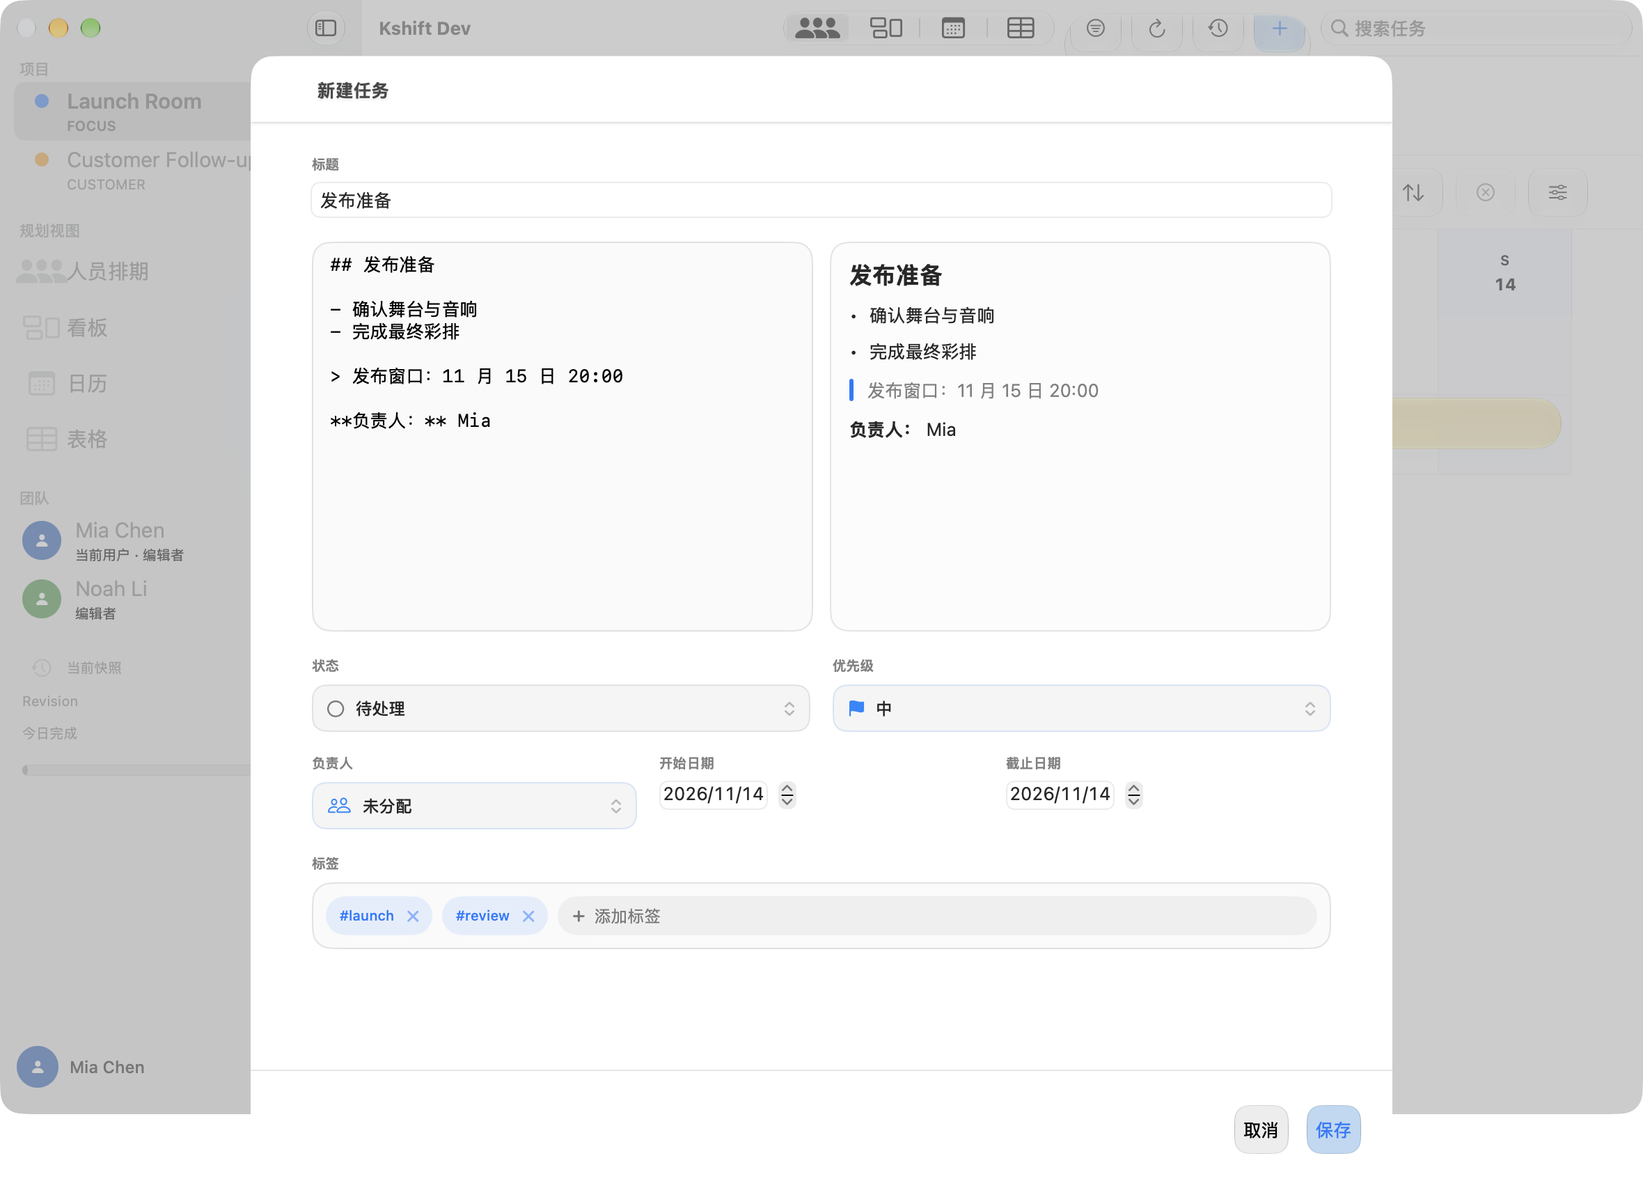
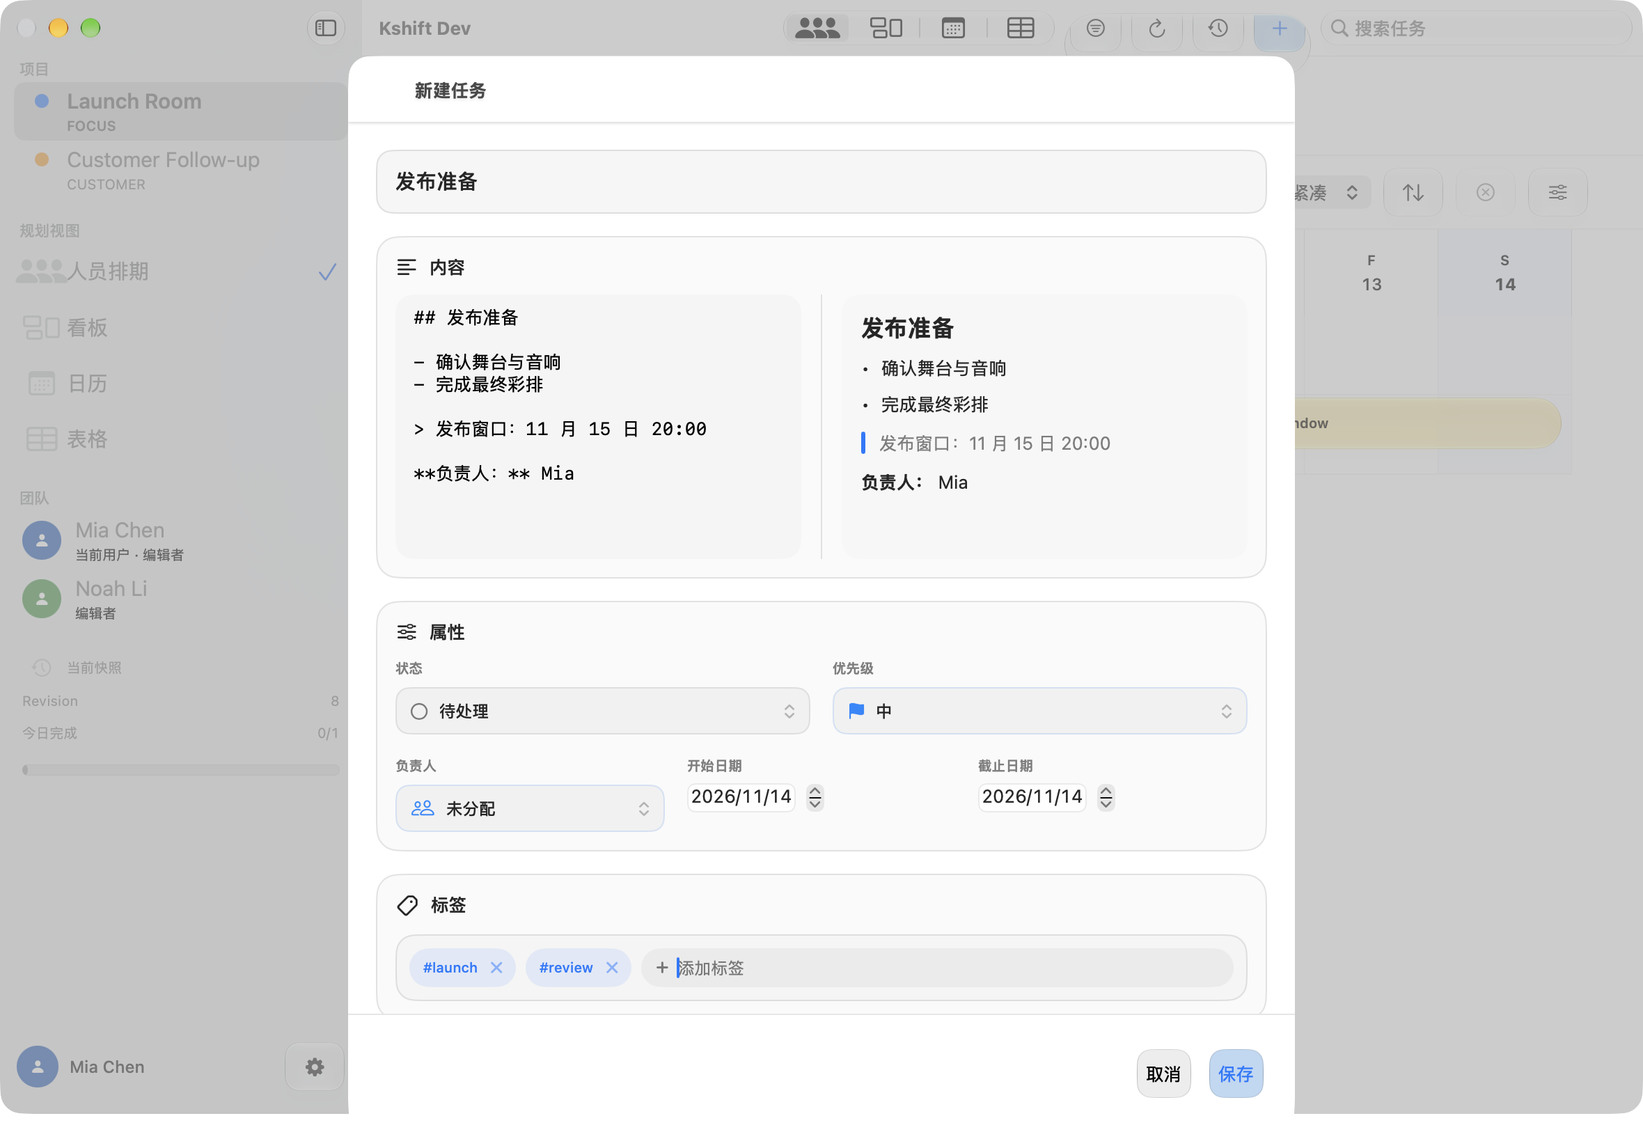
Tighten task panel layout and visual hierarchy

diff --git a/Sources/KshiftUI/TaskEditorView.swift b/Sources/KshiftUI/TaskEditorView.swift
@@ -36,23 +36,21 @@ struct TaskEditorView: View {
     }
 
     private var editorFields: some View {
-        VStack(alignment: .leading, spacing: 18) {
-            fieldGroup("标题") {
-                TextField("例如：确认发布清单", text: $draft.title, axis: .vertical)
-                    .textFieldStyle(.roundedBorder)
-                    .lineLimit(1...3)
-                    .accessibilityLabel("任务标题")
-                    .accessibilityIdentifier("task-title")
+        VStack(alignment: .leading, spacing: 16) {
+            titleField
+
+            panelSection("内容", systemImage: "text.alignleft") {
+                MarkdownEditorView(
+                    text: $draft.notes,
+                    paneHeight: markdownPaneHeight
+                )
             }
 
-            MarkdownEditorView(
-                text: $draft.notes,
-                paneHeight: markdownPaneHeight
-            )
+            panelSection("属性", systemImage: "slider.horizontal.3") {
+                taskPropertyFields
+            }
 
-            taskPropertyFields
-
-            fieldGroup("标签") {
+            panelSection("标签", systemImage: "tag") {
                 TaskTagEditor(tags: $draft.tags, input: $tagInput)
             }
 
@@ -63,6 +61,7 @@ struct TaskEditorView: View {
                 )
                 .font(.caption)
                 .foregroundStyle(.secondary)
+                .padding(.horizontal, 4)
             }
 
             if let validationMessage {
@@ -76,7 +75,57 @@ struct TaskEditorView: View {
                 ConflictInlineView(model: model, notice: conflict, dismiss: dismiss.callAsFunction)
             }
         }
-        .padding(24)
+        .padding(20)
+    }
+
+    private var titleField: some View {
+        TextField(
+            "任务标题",
+            text: $draft.title,
+            prompt: Text("任务标题"),
+            axis: .vertical
+        )
+        .font(.title3.weight(.semibold))
+        .textFieldStyle(.plain)
+        .lineLimit(1...3)
+        .padding(.horizontal, 14)
+        .padding(.vertical, 10)
+        .frame(maxWidth: .infinity, minHeight: 46, alignment: .leading)
+        .background(
+            .primary.opacity(0.04),
+            in: RoundedRectangle(cornerRadius: 12, style: .continuous)
+        )
+        .overlay {
+            RoundedRectangle(cornerRadius: 12, style: .continuous)
+                .strokeBorder(.separator, lineWidth: 1)
+                .allowsHitTesting(false)
+        }
+        .accessibilityLabel("任务标题")
+        .accessibilityIdentifier("task-title")
+    }
+
+    private func panelSection<Content: View>(
+        _ title: String,
+        systemImage: String,
+        @ViewBuilder content: () -> Content
+    ) -> some View {
+        VStack(alignment: .leading, spacing: 12) {
+            Label(title, systemImage: systemImage)
+                .font(.headline.weight(.semibold))
+                .foregroundStyle(.primary)
+
+            content()
+        }
+        .padding(14)
+        .background(
+            .primary.opacity(0.025),
+            in: RoundedRectangle(cornerRadius: 16, style: .continuous)
+        )
+        .overlay {
+            RoundedRectangle(cornerRadius: 16, style: .continuous)
+                .strokeBorder(.separator, lineWidth: 1)
+                .allowsHitTesting(false)
+        }
     }
 
     private var taskPropertyFields: some View {
@@ -230,9 +279,9 @@ struct TaskEditorView: View {
 
     private var markdownPaneHeight: CGFloat {
         if isCompactWidth {
-            return 220
+            return 170
         }
-        return presentation == .popover ? 230 : 280
+        return presentation == .popover ? 180 : 190
     }
 
     private var dueDateField: some View {
@@ -254,7 +303,7 @@ struct TaskEditorView: View {
         NavigationStack {
             ScrollView {
                 editorFields
-                    .frame(maxWidth: 780, alignment: .leading)
+                    .frame(maxWidth: 680, alignment: .leading)
                     .frame(maxWidth: .infinity, alignment: .center)
             }
             .background(.background)
@@ -270,10 +319,10 @@ struct TaskEditorView: View {
             }
             .interactiveDismissDisabled(isSaving)
             .frame(
-                minWidth: isCompactWidth ? nil : 820,
-                idealWidth: isCompactWidth ? nil : 860,
-                minHeight: isCompactWidth ? nil : 680,
-                idealHeight: isCompactWidth ? nil : 740
+                minWidth: isCompactWidth ? nil : 680,
+                idealWidth: isCompactWidth ? nil : 720,
+                minHeight: isCompactWidth ? nil : 640,
+                idealHeight: isCompactWidth ? nil : 720
             )
         }
     }
@@ -318,8 +367,8 @@ struct TaskEditorView: View {
             maxHeight: isCompactWidth ? .infinity : nil
         )
         .frame(
-            width: isCompactWidth ? nil : 720,
-            height: isCompactWidth ? nil : 600
+            width: isCompactWidth ? nil : 640,
+            height: isCompactWidth ? nil : 580
         )
         .background(.background)
         .interactiveDismissDisabled(isSaving)
@@ -404,6 +453,11 @@ private struct TaskMetadataControlLabel: View {
     let title: String
     let systemImage: String
     let tint: Color
+    @Environment(\.horizontalSizeClass) private var horizontalSizeClass
+
+    private var minimumHeight: CGFloat {
+        horizontalSizeClass == .compact ? 44 : 34
+    }
 
     var body: some View {
         HStack(spacing: 7) {
@@ -423,7 +477,7 @@ private struct TaskMetadataControlLabel: View {
         }
         .font(.callout.weight(.medium))
         .padding(.horizontal, 10)
-        .frame(maxWidth: .infinity, minHeight: 34, alignment: .leading)
+        .frame(maxWidth: .infinity, minHeight: minimumHeight, alignment: .leading)
         .background(.primary.opacity(0.045), in: RoundedRectangle(cornerRadius: 10, style: .continuous))
         .overlay {
             RoundedRectangle(cornerRadius: 10, style: .continuous)

diff --git a/Sources/KshiftUI/TaskDetailView.swift b/Sources/KshiftUI/TaskDetailView.swift
@@ -72,35 +72,52 @@ struct TaskDetailView: View {
                 Text("删除会写入项目审计记录。此操作不能静默撤销。")
             }
             .frame(
-                minWidth: isCompactWidth ? nil : 820,
-                idealWidth: isCompactWidth ? nil : 860,
-                minHeight: isCompactWidth ? nil : 680,
-                idealHeight: isCompactWidth ? nil : 740
+                minWidth: isCompactWidth ? nil : 680,
+                idealWidth: isCompactWidth ? nil : 720,
+                minHeight: isCompactWidth ? nil : 640,
+                idealHeight: isCompactWidth ? nil : 720
             )
         }
     }
 
     private func taskContent(_ task: TaskItem) -> some View {
         ScrollView {
-            VStack(alignment: .leading, spacing: 20) {
-                VStack(alignment: .leading, spacing: 10) {
-                    Text(task.title)
-                        .font(.largeTitle.weight(.bold))
-                        .fixedSize(horizontal: false, vertical: true)
+            VStack(alignment: .leading, spacing: 18) {
+                VStack(alignment: .leading, spacing: 16) {
+                    VStack(alignment: .leading, spacing: 10) {
+                        Text(task.title)
+                            .font(.title.weight(.bold))
+                            .fixedSize(horizontal: false, vertical: true)
 
-                    HStack(spacing: 8) {
-                        StatusBadge(status: task.status)
-                        PriorityBadge(priority: task.priority)
+                        HStack(spacing: 8) {
+                            StatusBadge(status: task.status)
+                            PriorityBadge(priority: task.priority)
+                        }
+                    }
+
+                    Divider()
+
+                    HStack(spacing: 20) {
+                        DetailFact(title: "负责人", value: model.assigneeNames(for: task))
+                        DetailFact(
+                            title: "日期",
+                            value: task.scheduleStartDate == task.scheduleEndDate
+                                ? task.dueDate
+                                : "\(task.scheduleStartDate) 至 \(task.scheduleEndDate)"
+                        )
+                        DetailFact(title: "版本", value: "v\(task.version)")
                     }
                 }
-
-                HStack(spacing: 18) {
-                    DetailFact(title: "负责人", value: model.assigneeNames(for: task))
-                    DetailFact(title: "日期", value: task.scheduleStartDate == task.scheduleEndDate ? task.dueDate : "\(task.scheduleStartDate) 至 \(task.scheduleEndDate)")
-                    DetailFact(title: "版本", value: "v\(task.version)")
+                .padding(20)
+                .background(
+                    .primary.opacity(0.025),
+                    in: RoundedRectangle(cornerRadius: 16, style: .continuous)
+                )
+                .overlay {
+                    RoundedRectangle(cornerRadius: 16, style: .continuous)
+                        .strokeBorder(.separator, lineWidth: 1)
+                        .allowsHitTesting(false)
                 }
-                .padding(16)
-                .kshiftContentBoard()
 
                 KshiftMarkdownText(
                     source: task.notes.isEmpty ? "暂无详情" : task.notes,
@@ -158,8 +175,8 @@ struct TaskDetailView: View {
                     }
                 }
             }
-            .padding(28)
-            .frame(maxWidth: 900, alignment: .leading)
+            .padding(24)
+            .frame(maxWidth: 720, alignment: .leading)
         }
         .background(.background)
         .accessibilityIdentifier("task-detail")

diff --git a/Sources/KshiftUI/TaskTagsView.swift b/Sources/KshiftUI/TaskTagsView.swift
@@ -17,7 +17,12 @@ struct TaskTagList: View {
 struct TaskTagEditor: View {
     @Binding var tags: [String]
     @Binding var input: String
+    @Environment(\.horizontalSizeClass) private var horizontalSizeClass
     @FocusState private var isInputFocused: Bool
+
+    private var inputMinimumHeight: CGFloat {
+        horizontalSizeClass == .compact ? 44 : 28
+    }
 
     var body: some View {
         TagFlowLayout(spacing: 7, expandsLastItem: true) {
@@ -49,7 +54,7 @@ struct TaskTagEditor: View {
                     .accessibilityIdentifier("task-tag-input")
             }
             .padding(.horizontal, 10)
-            .frame(minHeight: 28)
+            .frame(minHeight: inputMinimumHeight)
             .background(.primary.opacity(0.05), in: Capsule())
         }
         .padding(10)
@@ -98,6 +103,11 @@ enum TaskTagValues {
 private struct TaskTagChip: View {
     let tag: String
     var onRemove: (() -> Void)?
+    @Environment(\.horizontalSizeClass) private var horizontalSizeClass
+
+    private var chipHeight: CGFloat {
+        onRemove != nil && horizontalSizeClass == .compact ? 44 : 28
+    }
 
     var body: some View {
         HStack(spacing: 4) {
@@ -109,7 +119,10 @@ private struct TaskTagChip: View {
                 Button(action: onRemove) {
                     Image(systemName: "xmark")
                         .font(.caption2.weight(.bold))
-                        .frame(width: 18, height: 18)
+                        .frame(
+                            width: horizontalSizeClass == .compact ? 34 : 18,
+                            height: chipHeight
+                        )
                 }
                 .buttonStyle(.plain)
                 .foregroundStyle(.secondary)
@@ -119,7 +132,7 @@ private struct TaskTagChip: View {
         .foregroundStyle(.tint)
         .padding(.leading, 10)
         .padding(.trailing, onRemove == nil ? 10 : 5)
-        .frame(minHeight: 28)
+        .frame(minHeight: chipHeight)
         .background(.tint.opacity(0.1), in: Capsule())
     }
 }

diff --git a/Sources/KshiftUI/Markdown/MarkdownEditorView.swift b/Sources/KshiftUI/Markdown/MarkdownEditorView.swift
@@ -14,11 +14,13 @@ struct MarkdownEditorView: View {
             if stacksVertically {
                 VStack(spacing: 12) {
                     editorPane
+                    Divider()
                     previewPane
                 }
             } else {
-                HStack(alignment: .top, spacing: 12) {
+                HStack(alignment: .top, spacing: 14) {
                     editorPane
+                    Divider()
                     previewPane
                 }
             }
@@ -37,11 +39,6 @@ struct MarkdownEditorView: View {
             .writingToolsBehavior(.disabled)
             .frame(maxWidth: .infinity, minHeight: paneHeight, maxHeight: paneHeight)
             .background(.primary.opacity(0.025), in: paneShape)
-            .overlay {
-                paneShape
-                    .strokeBorder(.separator, lineWidth: 1)
-                    .allowsHitTesting(false)
-            }
             .overlay(alignment: .topLeading) {
                 if text.isEmpty {
                     Text("输入 Markdown")
@@ -67,11 +64,6 @@ struct MarkdownEditorView: View {
         }
         .frame(maxWidth: .infinity, minHeight: paneHeight, maxHeight: paneHeight)
         .background(.primary.opacity(0.015), in: paneShape)
-        .overlay {
-            paneShape
-                .strokeBorder(.separator, lineWidth: 1)
-                .allowsHitTesting(false)
-        }
         .accessibilityLabel("Markdown 预览")
         .accessibilityIdentifier("markdown-preview")
     }

diff --git a/docs/evidence/people-schedule/glass-task-bar/README.md b/docs/evidence/people-schedule/glass-task-bar/README.md
@@ -50,7 +50,7 @@ description: 记录人员排期任务条使用原生染色 Liquid Glass、明亮
 - Window toolbar 只保留 one accent action。
 - macOS work area 使用 `AppKitScrollWheelRouter`。Vertical wheel 驱动 vertical scroll view。Shift + wheel 驱动 horizontal timeline。
 - Blank day cell click 使用 clicked person 和 clicked date 创建 local `TaskDraft`。
-- Blank day cell click 打开 responsive `TaskEditorView` popover。Popover default size 为 720pt × 600pt。
+- Blank day cell click 打开 responsive `TaskEditorView` popover。Popover default size 为 640pt × 580pt。
 - Regular PeopleSchedule 隐藏 duplicated global date navigation row。
 - Single schedule toolbar 包含 date picker、period control、density、sort、clear selection 和 settings。
 - Sidebar footer 使用 gear button，并打开 `KshiftAppSettingsView`。
@@ -61,14 +61,14 @@ description: 记录人员排期任务条使用原生染色 Liquid Glass、明亮
 - Task bars show a delayed hover preview panel。
 - Hover preview contains task metadata and rendered Markdown details。
 - Task details and task editor use the shared Markdown renderer。
-- Task editor shows editable Markdown and rendered preview simultaneously。It has no `编写` / `预览` mode switch。
+- Task editor shows editable Markdown and rendered preview simultaneously in adaptive side-by-side or stacked panes。It has no `编写` / `预览` mode switch。
 - Markdown preview supports headings、lists、quotes、dividers and fenced code。
 - Status and priority controls use equal-width columns。Tag editing uses removable chips and an inline input。
-- Regular task detail and task editor sheets use an `820pt` minimum width。
+- Regular task detail and task editor sheets use a `680pt` minimum width。
 
 ## 视觉证据
 
-截图使用固定日期 `2026-11-15` 和 Demo 数据。截图显示 P0、P1、P2 任务条在 Light Mode 和 Dark Mode 中保留优先级颜色、玻璃高光和单行紧凑布局。任务条保留统一的日期间距，不贴边绘制；单日标题完整显示或被 tail truncation 裁切；状态符号使用白芯高对比徽章，完成状态为绿色。Toolbar buttons 使用紧凑 neutral glass，不再出现 high-height accent-tinted blocks。Window toolbar 只保留 New Task as one pale-accent primary action。Regular PeopleSchedule uses one date and period navigation row。The sidebar gear button opens the application settings surface。PeopleSchedule no longer exposes the legacy Plan Depth entry。Task bars show rendered Markdown hover previews。Shift + wheel moved the month timeline horizontally。Blank day cell click opened and saved a responsive task popover。The Markdown editor now shows live write and preview panes。Status and priority columns are aligned。Tags use compact removable chips。
+截图使用固定日期 `2026-11-15` 和 Demo 数据。截图显示 P0、P1、P2 任务条在 Light Mode 和 Dark Mode 中保留优先级颜色、玻璃高光和单行紧凑布局。任务条保留统一的日期间距，不贴边绘制；单日标题完整显示或被 tail truncation 裁切；状态符号使用白芯高对比徽章，完成状态为绿色。Toolbar buttons 使用紧凑 neutral glass，不再出现 high-height accent-tinted blocks。Window toolbar 只保留 New Task as one pale-accent primary action。Regular PeopleSchedule uses one date and period navigation row。The sidebar gear button opens the application settings surface。PeopleSchedule no longer exposes the legacy Plan Depth entry。Task bars show rendered Markdown hover previews。Shift + wheel moved the month timeline horizontally。Blank day cell click opened and saved a responsive task popover。The task editor now uses compact section cards and live Markdown panes。Status and priority columns are aligned。Tags use compact removable chips。
 
 | 文件 | 环境 | 内容 | SHA-256 |
 | --- | --- | --- | --- |
@@ -76,11 +76,11 @@ description: 记录人员排期任务条使用原生染色 Liquid Glass、明亮
[11 lines of base64/hex data omitted]
 
 旧文件 `macos-task-bar-2026-11-14.png` 和 `ios-task-bar-2026-11-14.png` 是上一版 `.buttonStyle(.glass)` 候选。它们不表示最终视觉结论。
 

diff --git a/docs/specs/ui.md b/docs/specs/ui.md
@@ -148,12 +148,12 @@ flowchart TB
 - `UI-PPL-017`：任务状态徽章必须使用 26pt 外框、3pt 状态语义色环、白色中性内盘和 `13pt` heavy 状态符号。`todo` 使用 `circle.dashed` 和 `#8E8E93`/`#4B4B50`。`inProgress` 使用 `clock.fill` 和 `#0A84FF`/`#0057C8`。`blocked` 使用 `exclamationmark.octagon.fill` 和 `#FF453A`/`#A61B1B`。`done` 使用 `checkmark` 和 `#30D158`/`#0F7A3D`。优先级继续由 task bar tint 表达。状态菜单保持 44pt 触控区域。
 - `UI-PPL-018`：Planner toolbar 和 PeopleSchedule toolbar 的 action buttons 必须使用 `KshiftCompactGlassButtonStyle`。Visual height 必须为 34pt。Outer hit target 不得小于 44pt。Content 必须使用 primary color。Glass 必须使用 neutral `.glassEffect(.regular.interactive())`。禁止 accent-tinted `.buttonStyle(.glass)` 和 oversized glass container。Schedule toolbar 的 vertical padding 必须为 4pt，minimum height 必须为 52pt。
 - `UI-PPL-019`：macOS work area 必须将 vertical wheel route 到 nearest vertical scroll view。Shift + wheel 必须 route 到 nearest horizontal scroll view。Wheel routing 必须保留 precise scrolling deltas。Event handling 必须位于 `KshiftAppKitAdapter`。
-- `UI-PPL-020`：Click blank schedule day cell 必须使用 clicked person 和 clicked date 创建 local `TaskDraft`。交互必须打开 `TaskEditorView` 的 `popover` presentation。Popover default size 必须为 720pt × 600pt。Popup layout 必须使用 responsive assignee row 和 two-date row。该交互不得设置 root `editorDraft` 或复用 sheet presentation。
+- `UI-PPL-020`：Click blank schedule day cell 必须使用 clicked person 和 clicked date 创建 local `TaskDraft`。交互必须打开 `TaskEditorView` 的 `popover` presentation。Popover default size 必须为 640pt × 580pt。Popup layout 必须使用 responsive assignee row 和 two-date row。该交互不得设置 root `editorDraft` 或复用 sheet presentation。
 - `UI-PPL-021`：Regular horizontal-size PeopleSchedule 必须隐藏 PlannerView 的 global date navigation row。Schedule toolbar 必须是唯一 date 和 period navigation source。Schedule toolbar 必须包含 date picker、period control、density、sort、clear selection 和 settings。Compact horizontal-size class 必须保留 view picker 和 compact action bar。
 - `UI-PPL-022`：Sidebar footer 的 trailing action 必须是 settings gear button。该按钮必须打开 `KshiftAppSettingsView`。Settings surface 必须包含 schedule layout controls、system accessibility shortcut 和 about information。禁止将 system accessibility settings 作为 footer button 的直接 action。Button accessibility identifier 必须为 `settings-button`。
 - `UI-PPL-023`：Task bar 必须在 pointer hover 450ms 后显示 adjacent preview panel。Preview panel 必须显示 title、status、priority、assignee、date、tags 和 rendered Markdown detail。Preview panel 必须是 read-only，并使用 accessibility identifier `task-preview-<task-id>`。
 - `UI-PPL-024`：Task detail 和 task editor 必须使用 shared Markdown renderer。Task editor 必须同时显示 editable Markdown 和 rendered preview，不得要求 `编写` / `预览` mode switch。Preview 必须支持 heading、paragraph、bullet list、numbered list、blockquote、divider 和 fenced code block。Inline Markdown 必须保留。Task detail 必须 render Markdown detail，不得显示 raw Markdown source。
-- `UI-PPL-025`：Regular task detail 和 task editor sheet 的 minimum width 必须为 `820pt`。Schedule task editor popover 的 width 必须为 `720pt`。Status 与 priority 控件必须使用 equal-width columns。Tag editor 必须使用 removable tag chips 和 inline add input。
+- `UI-PPL-025`：Regular task detail 和 task editor sheet 的 minimum width 必须为 `680pt`。Schedule task editor popover 的 width 必须为 `640pt`。Task editor 必须使用 content sections、adaptive Markdown layout 和 aligned metadata columns。Status 与 priority 控件必须使用 equal-width columns。Tag editor 必须使用 removable tag chips 和 inline add input。
 
 ## 8. 关联合同
 
